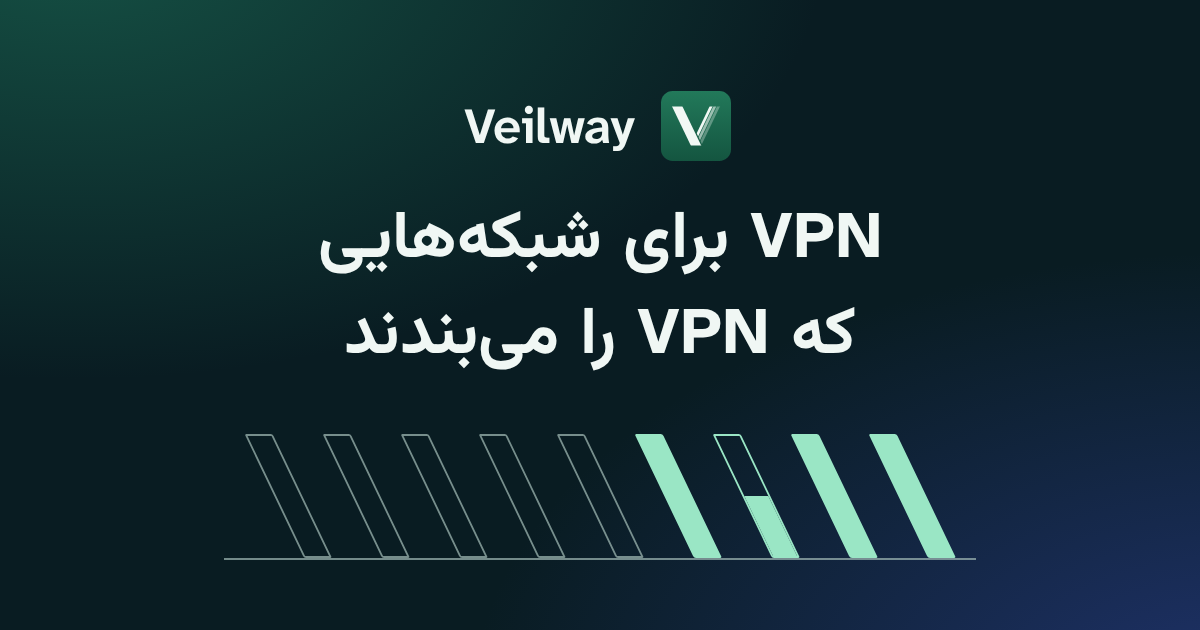
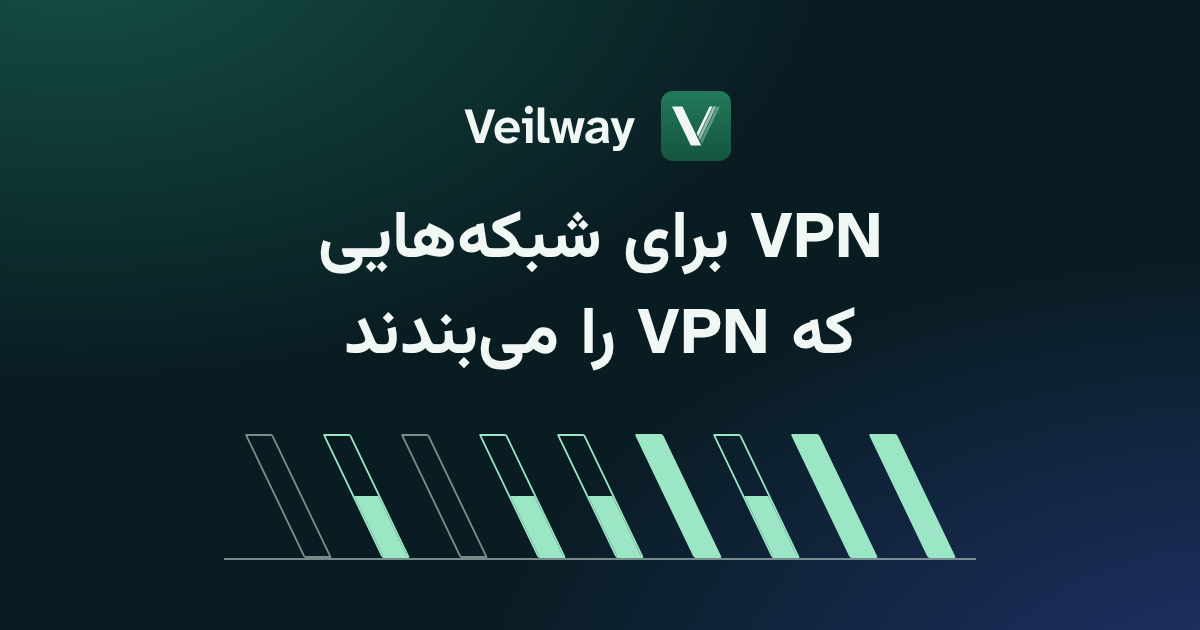
site: the panel, how it will install, and the work under way

diff --git a/fa/index.html b/fa/index.html
@@ -25,14 +25,14 @@
 <meta property="og:image:type" content="image/png">
 <meta property="og:image:width" content="1200">
 <meta property="og:image:height" content="630">
-<meta property="og:image:alt" content="نشان Veilway بالای عبارت «VPN برای شبکههایی که VPN را میبندند» و نه خط مایل برای مرحلههای پروژه، که سهتای آن انجام شده و یکی در جریان است">
+<meta property="og:image:alt" content="نشان Veilway بالای عبارت «VPN برای شبکههایی که VPN را میبندند» و نه خط مایل برای مرحلههای پروژه، که سهتای آن انجام شده و چهارتا در جریان است">
 <meta property="og:locale" content="fa_IR">
 <meta property="og:locale:alternate" content="en_US">
 <meta name="twitter:card" content="summary_large_image">
 <meta name="twitter:title" content="Veilway: VPN برای شبکههایی که VPN را میبندند">
 <meta name="twitter:description" content="Veilway نرمافزاری متنباز برای راهاندازی سرور VPN شخصی روی شبکهای سانسورشده یا ناامن است، برای خودتان یا یک گروه کوچک.">
 <meta name="twitter:image" content="https://veilway-project.github.io/img/preview-fa.png">
-<meta name="twitter:image:alt" content="نشان Veilway بالای عبارت «VPN برای شبکههایی که VPN را میبندند» و نه خط مایل برای مرحلههای پروژه، که سهتای آن انجام شده و یکی در جریان است">
+<meta name="twitter:image:alt" content="نشان Veilway بالای عبارت «VPN برای شبکههایی که VPN را میبندند» و نه خط مایل برای مرحلههای پروژه، که سهتای آن انجام شده و چهارتا در جریان است">
 <link rel="preload" href="../fonts/vazirmatn-arabic-wght-normal.woff2" as="font" type="font/woff2" crossorigin>
 <link rel="stylesheet" href="../site.css">
 </head>
@@ -59,7 +59,7 @@
 					<a class="vw-button" href="https://veilway-project.github.io/veilway-docs/fa/">خواندن مستندات</a>
 				</div>
 			</div>
-			<p class="caveat" role="note"><strong><svg class="vw-icon" viewBox="0 0 24 24" aria-hidden="true"><path d="M12 3.5 2.8 19.5h18.4z"/><path d="M12 10v4.5"/><path d="M12 17.2v.1"/></svg>آزمایشی</strong>هنوز هیچ بازبینی امنیتی بیرونی نداشته، هیچ برنامهای با پروتکل جدیدش کار نمیکند و چیزی برای دانلود وجود ندارد. فعلاً برای گردانندگان سرور و برنامهنویسانی است که خودشان از روی کد میسازند.</p>
+			<p class="caveat" role="note"><strong><svg class="vw-icon" viewBox="0 0 24 24" aria-hidden="true"><path d="M12 3.5 2.8 19.5h18.4z"/><path d="M12 10v4.5"/><path d="M12 17.2v.1"/></svg>آزمایشی</strong>هنوز هیچ بازبینی امنیتی بیرونی نداشته و هنوز نسخهای برای دانلود منتشر نشده است. فعلاً برای گردانندگان سرور و برنامهنویسانی است که خودشان از روی کد میسازند.</p>
 		</div>
 	</section>
 	<section class="section" aria-labelledby="status">
@@ -75,10 +75,10 @@
 					<li data-state="done"><span class="stroke" aria-hidden="true"></span><span class="phase-n">۱</span><span class="phase-name">موتور هسته</span><span class="phase-state">انجام شد</span></li>
 					<li data-state="now"><span class="stroke" aria-hidden="true"></span><span class="phase-n">۲</span><span class="phase-name">پروتکل جدید و موتور کلاینت</span><span class="phase-state">در حال انجام</span></li>
 					<li data-state="done"><span class="stroke" aria-hidden="true"></span><span class="phase-n">۳</span><span class="phase-name">سیستم طراحی</span><span class="phase-state">انجام شد</span></li>
-					<li><span class="stroke" aria-hidden="true"></span><span class="phase-n">۴</span><span class="phase-name">پنل وب</span><span class="phase-state">برنامهریزیشده</span></li>
-					<li><span class="stroke" aria-hidden="true"></span><span class="phase-n">۵</span><span class="phase-name">برنامهٔ دسکتاپ، آلفای عمومی</span><span class="phase-state">برنامهریزیشده</span></li>
+					<li data-state="now"><span class="stroke" aria-hidden="true"></span><span class="phase-n">۴</span><span class="phase-name">پنل وب</span><span class="phase-state">در حال انجام</span></li>
+					<li data-state="now"><span class="stroke" aria-hidden="true"></span><span class="phase-n">۵</span><span class="phase-name">برنامهٔ دسکتاپ، آلفای عمومی</span><span class="phase-state">در حال انجام</span></li>
 					<li><span class="stroke" aria-hidden="true"></span><span class="phase-n">۶</span><span class="phase-name">افزونهٔ اختیاری Xray</span><span class="phase-state">برنامهریزیشده</span></li>
-					<li><span class="stroke" aria-hidden="true"></span><span class="phase-n">۷</span><span class="phase-name">برنامهٔ اندروید</span><span class="phase-state">برنامهریزیشده</span></li>
+					<li data-state="now"><span class="stroke" aria-hidden="true"></span><span class="phase-n">۷</span><span class="phase-name">برنامهٔ اندروید</span><span class="phase-state">در حال انجام</span></li>
 					<li><span class="stroke" aria-hidden="true"></span><span class="phase-n">۸</span><span class="phase-name">مستندات کامل، نسخههای امضاشده</span><span class="phase-state">برنامهریزیشده</span></li>
 				</ol>
 			</div>
@@ -87,15 +87,20 @@
 					<h3>آنچه امروز کار میکند</h3>
 					<ul class="done-list">
 						<li>سروری که WireGuard را برای کاربران زیادی روی UDP و WebSocket اجرا میکند، با قانونهای مسیریابی، سهمیهٔ مصرف و بارگذاری دوبارهٔ پیکربندی بدون راهاندازی دوباره.</li>
-						<li>سمت سرور پروتکل جدید: یک کانال کنترل درون تونل و چهار ترنسپورت، بهاضافهٔ یک کتابخانهٔ کلاینت برای آنها که هنوز هیچ برنامهای از آن استفاده نمیکند.</li>
+						<li>پروتکل جدید در هر دو سو: یک کانال کنترل درون تونل و چهار ترنسپورت، با کلاینتی که دستدادن TLS آن شبیه یک مرورگر رایج است.</li>
+						<li>لایههای تونل کلاینت برای لینوکس، ویندوز و macOS، با یک کلید قطع اضطراری که اگر تونل از کار بیفتد ترافیک را میبندد. لایههای ویندوز و macOS هنوز روی دستگاه واقعی اجرا نشدهاند.</li>
+						<li>یک پنل وب به فارسی و انگلیسی: ورود مدیر با تأیید دومرحلهای، کاربران و دستگاهها، لینکهای اشتراک و کد QR، ورودیها، خروجیها و مسیریابی سرور، اتصال دو سرور به هم، تاریخچهٔ ترافیک، و یک API مدیریتی با توکن.</li>
 						<li>اتصال دو سرور به هم، با کدهایی که هر دو گرداننده با هم مقایسه میکنند.</li>
-						<li>یک برنامهٔ دسکتاپ ویندوز که فایل معمولی WireGuard را میخواند. این برنامه با پروتکل جدید کار نمیکند.</li>
-						<li>سیستم طراحی پنل و برنامهها، که هنوز چیزی از آن استفاده نمیکند.</li>
+						<li>سیستم طراحی پنل و برنامهها.</li>
 					</ul>
 				</div>
 				<div>
 					<h3>قدم بعدی</h3>
-					<p class="next">موتور کلاینت برای ویندوز، macOS و لینوکس. پس از آن پنل وب، برنامهٔ دسکتاپ بهعنوان نخستین نسخهٔ آلفای عمومی، و برنامهٔ اندروید میآیند.</p>
+					<p class="next">برنامهٔ دسکتاپ و برنامهٔ اندروید، که همین حالا برای نخستین نسخهٔ آلفای عمومی ساخته میشوند.</p>
+					<h3 class="install">چطور نصب خواهد شد</h3>
+					<p class="next">نخستین نسخه در راه است. وقتی منتشر شود، یک اسکریپت از روی یک منو سرور، پنل یا هر دو را نصب میکند، امضای هر فایل دانلودی را با minisign بررسی میکند، و بعدها بهروزرسانی و پشتیبانگیری را هم انجام میدهد.</p>
+					<p class="next cmd"><code class="vw-code">curl -fsSL https://raw.githubusercontent.com/veilway-project/veilway/main/scripts/veilway.sh | sudo bash</code></p>
+					<p class="next">راه دیگر، ایمیجهای Docker همراه با یک فایل compose است: <code class="vw-code">ghcr.io/veilway-project/veilway</code> و <code class="vw-code">ghcr.io/veilway-project/veilway-panel</code>.</p>
 				</div>
 			</div>
 		</div>
@@ -129,7 +134,7 @@
 					</li>
 					<li>
 						<h3>ورود از یک سرور، خروج از سروری دیگر</h3>
-						<p>دو سرور را میشود به هم وصل کرد تا کاربران به یکی وصل شوند و ترافیکشان از دیگری بیرون برود. گردانندگان آنها را با دو کد جفت میکنند و یک اثر انگشت را با هم مقایسه میکنند. هسته امروز این کار را میکند و پنل بعداً مدیریتش را بر عهده میگیرد.</p>
+						<p>دو سرور را میشود به هم وصل کرد تا کاربران به یکی وصل شوند و ترافیکشان از دیگری بیرون برود. گردانندگان آنها را در پنل یا از خط فرمان با دو کد جفت میکنند و یک اثر انگشت را با هم مقایسه میکنند.</p>
 					</li>
 					<li>
 						<h3>فارسی و انگلیسی از روز اول</h3>
@@ -149,8 +154,13 @@
 				<ul class="links">
 					<li>
 						<a href="https://github.com/veilway-project/veilway">کد</a>
-						<p>هسته، API کنترل و برنامهٔ دسکتاپ. راهنمای ساختن از روی کد در README آمده است.</p>
+						<p>هسته، API کنترل، کلاینت و اسکریپت نصب. راهنمای ساختن از روی کد در README آمده است.</p>
 						<span class="vw-code">github.com/veilway-project/veilway</span>
+					</li>
+					<li>
+						<a href="https://github.com/veilway-project/veilway-panel">پنل</a>
+						<p>پنل وب برای گرداندن سرور: کاربران، دستگاهها، لینکهای اشتراک و API مدیریتی.</p>
+						<span class="vw-code">github.com/veilway-project/<wbr>veilway-panel</span>
 					</li>
 					<li>
 						<a href="https://veilway-project.github.io/veilway-docs/fa/">مستندات</a>
@@ -169,7 +179,7 @@
 					</li>
 					<li>
 						<a href="https://github.com/veilway-project">همهٔ مخزنها</a>
-						<p>هسته، مستندات و سیستم طراحی، هر کدام در مخزن خودش.</p>
+						<p>هسته، پنل، مستندات و سیستم طراحی، هر کدام در مخزن خودش.</p>
 						<span class="vw-code">github.com/veilway-project</span>
 					</li>
 				</ul>

diff --git a/index.html b/index.html
@@ -25,14 +25,14 @@
 <meta property="og:image:type" content="image/png">
 <meta property="og:image:width" content="1200">
 <meta property="og:image:height" content="630">
-<meta property="og:image:alt" content="The Veilway logo above the words A VPN for networks that block VPNs, and nine slanted strokes for the project's phases, three done and one under way">
+<meta property="og:image:alt" content="The Veilway logo above the words A VPN for networks that block VPNs, and nine slanted strokes for the project's phases, three done and four under way">
 <meta property="og:locale" content="en_US">
 <meta property="og:locale:alternate" content="fa_IR">
 <meta name="twitter:card" content="summary_large_image">
 <meta name="twitter:title" content="Veilway: a VPN for networks that block VPNs">
 <meta name="twitter:description" content="Veilway is open-source software for running your own VPN server on a censored or hostile network, for yourself or a small group.">
 <meta name="twitter:image" content="https://veilway-project.github.io/img/preview.png">
-<meta name="twitter:image:alt" content="The Veilway logo above the words A VPN for networks that block VPNs, and nine slanted strokes for the project's phases, three done and one under way">
+<meta name="twitter:image:alt" content="The Veilway logo above the words A VPN for networks that block VPNs, and nine slanted strokes for the project's phases, three done and four under way">
 <link rel="preload" href="fonts/atkinson-hyperlegible-next-latin-wght-normal.woff2" as="font" type="font/woff2" crossorigin>
 <link rel="stylesheet" href="site.css">
 </head>
@@ -59,7 +59,7 @@
 					<a class="vw-button" href="https://veilway-project.github.io/veilway-docs/">Read the docs</a>
 				</div>
 			</div>
-			<p class="caveat" role="note"><strong><svg class="vw-icon" viewBox="0 0 24 24" aria-hidden="true"><path d="M12 3.5 2.8 19.5h18.4z"/><path d="M12 10v4.5"/><path d="M12 17.2v.1"/></svg>Experimental</strong>It has had no outside security review, no app speaks its new protocol yet, and there is nothing to download. Today it is for operators and developers who build from source.</p>
+			<p class="caveat" role="note"><strong><svg class="vw-icon" viewBox="0 0 24 24" aria-hidden="true"><path d="M12 3.5 2.8 19.5h18.4z"/><path d="M12 10v4.5"/><path d="M12 17.2v.1"/></svg>Experimental</strong>It has had no outside security review and there is no release to download yet. Today it is for operators and developers who build from source.</p>
 		</div>
 	</section>
 	<section class="section" aria-labelledby="status">
@@ -75,10 +75,10 @@
 					<li data-state="done"><span class="stroke" aria-hidden="true"></span><span class="phase-n">1</span><span class="phase-name">Core engine</span><span class="phase-state">Done</span></li>
 					<li data-state="now"><span class="stroke" aria-hidden="true"></span><span class="phase-n">2</span><span class="phase-name">New protocol and client engine</span><span class="phase-state">In progress</span></li>
 					<li data-state="done"><span class="stroke" aria-hidden="true"></span><span class="phase-n">3</span><span class="phase-name">Design system</span><span class="phase-state">Done</span></li>
-					<li><span class="stroke" aria-hidden="true"></span><span class="phase-n">4</span><span class="phase-name">Web panel</span><span class="phase-state">Planned</span></li>
-					<li><span class="stroke" aria-hidden="true"></span><span class="phase-n">5</span><span class="phase-name">Desktop app, public alpha</span><span class="phase-state">Planned</span></li>
+					<li data-state="now"><span class="stroke" aria-hidden="true"></span><span class="phase-n">4</span><span class="phase-name">Web panel</span><span class="phase-state">In progress</span></li>
+					<li data-state="now"><span class="stroke" aria-hidden="true"></span><span class="phase-n">5</span><span class="phase-name">Desktop app, public alpha</span><span class="phase-state">In progress</span></li>
 					<li><span class="stroke" aria-hidden="true"></span><span class="phase-n">6</span><span class="phase-name">Optional Xray add-on</span><span class="phase-state">Planned</span></li>
-					<li><span class="stroke" aria-hidden="true"></span><span class="phase-n">7</span><span class="phase-name">Android app</span><span class="phase-state">Planned</span></li>
+					<li data-state="now"><span class="stroke" aria-hidden="true"></span><span class="phase-n">7</span><span class="phase-name">Android app</span><span class="phase-state">In progress</span></li>
 					<li><span class="stroke" aria-hidden="true"></span><span class="phase-n">8</span><span class="phase-name">Full docs, signed releases</span><span class="phase-state">Planned</span></li>
 				</ol>
 			</div>
@@ -87,15 +87,20 @@
 					<h3>Works today</h3>
 					<ul class="done-list">
 						<li>A server that runs WireGuard for many users over UDP and WebSocket, with routing rules, quotas, and config reload without a restart.</li>
-						<li>The server side of the new protocol: a control channel inside the tunnel and four transports, plus a client library for them that no app uses yet.</li>
+						<li>The new protocol on both ends: a control channel inside the tunnel and four transports, with a client whose TLS handshake looks like a common browser's.</li>
+						<li>The client's tunnel layers for Linux, Windows and macOS, with a kill switch that blocks traffic when the tunnel fails. The Windows and macOS layers have not run on a real machine yet.</li>
+						<li>A web panel in English and Persian: admin sign-in with two-factor, users and devices, subscription links and QR codes, the server's inbounds, exits and routing, linking two servers, traffic history, and an admin API with tokens.</li>
 						<li>Links between two servers, paired with codes both operators compare.</li>
-						<li>A Windows desktop app that reads a normal WireGuard file. It does not speak the new protocol.</li>
-						<li>The design system for the panel and the apps, which nothing uses yet.</li>
+						<li>The design system for the panel and the apps.</li>
 					</ul>
 				</div>
 				<div>
 					<h3>Next</h3>
-					<p class="next">The client engine for Windows, macOS and Linux. After it come the web panel, the desktop app as the first public alpha, and the Android app.</p>
+					<p class="next">The desktop app and the Android app, built now for the first public alpha.</p>
+					<h3 class="install">How it will install</h3>
+					<p class="next">The first release is coming. Once it is out, one script installs the server, the panel or both from a menu, checks every download's signature with minisign, and later updates and backs it up.</p>
+					<p class="next cmd"><code class="vw-code">curl -fsSL https://raw.githubusercontent.com/veilway-project/veilway/main/scripts/veilway.sh | sudo bash</code></p>
+					<p class="next">Docker images with a compose file are another option: <code class="vw-code">ghcr.io/veilway-project/veilway</code> and <code class="vw-code">ghcr.io/veilway-project/veilway-panel</code>.</p>
 				</div>
 			</div>
 		</div>
@@ -129,7 +134,7 @@
 					</li>
 					<li>
 						<h3>Enter one server, leave from another</h3>
-						<p>Two servers can be linked, so users connect to one and their traffic leaves from the other. The operators pair them with two codes and compare a fingerprint. The core does this today, and the panel will manage it.</p>
+						<p>Two servers can be linked, so users connect to one and their traffic leaves from the other. The operators pair them with two codes and compare a fingerprint, in the panel or on the command line.</p>
 					</li>
 					<li>
 						<h3>English and Persian from the start</h3>
@@ -149,8 +154,13 @@
 				<ul class="links">
 					<li>
 						<a href="https://github.com/veilway-project/veilway">Code</a>
-						<p>The core, the control API and the desktop app. The README has a quick start for building from source.</p>
+						<p>The core, the control API, the client and the install script. The README has a quick start for building from source.</p>
 						<span class="vw-code">github.com/veilway-project/veilway</span>
+					</li>
+					<li>
+						<a href="https://github.com/veilway-project/veilway-panel">Panel</a>
+						<p>The web panel for running a server: users, devices, subscription links and the admin API.</p>
+						<span class="vw-code">github.com/veilway-project/<wbr>veilway-panel</span>
 					</li>
 					<li>
 						<a href="https://veilway-project.github.io/veilway-docs/">Docs</a>
@@ -169,7 +179,7 @@
 					</li>
 					<li>
 						<a href="https://github.com/veilway-project">All repositories</a>
-						<p>The core, the docs and the design system, each in its own repository.</p>
+						<p>The core, the panel, the docs and the design system, each in its own repository.</p>
 						<span class="vw-code">github.com/veilway-project</span>
 					</li>
 				</ul>

diff --git a/site.css b/site.css
@@ -390,6 +390,8 @@ body.vw-backdrop::after { content: none; }
 .done-list li::before { content: ""; position: absolute; inset-inline-start: 4px; inset-block-start: 0.35em; inline-size: 4px; block-size: 0.95em; border-radius: 1px; background: var(--c-accent-ink); transform: skewX(var(--slant)); }
 :lang(fa) .done-list li::before { inset-block-start: 0.5em; }
 .status .next { margin-block-start: var(--s-3); max-inline-size: 30em; }
+.status .install { margin-block-start: var(--s-6); }
+.status .cmd { direction: ltr; text-align: left; }
 /* What it does differently: the client windows beside the points they show. */
 .diff { display: grid; gap: var(--s-7); margin-block-start: var(--s-7); align-items: start; }
 @media (min-width: 900px) {

diff --git a/preview-src/fa.html b/preview-src/fa.html
@@ -4,6 +4,6 @@
 <body>
 <div class="brand"><img src="/site/img/icon.svg" alt="">Veilway</div>
 <h1>VPN برای شبکههایی که VPN را میبندند</h1>
-<div class="phases"><i class="done"></i><i class="done"></i><i class="now"></i><i class="done"></i><i></i><i></i><i></i><i></i><i></i></div>
+<div class="phases"><i class="done"></i><i class="done"></i><i class="now"></i><i class="done"></i><i class="now"></i><i class="now"></i><i></i><i class="now"></i><i></i></div>
 </body>
 </html>

diff --git a/preview-src/en.html b/preview-src/en.html
@@ -4,6 +4,6 @@
 <body>
 <div class="brand"><img src="/site/img/icon.svg" alt="">Veilway</div>
 <h1>A VPN for networks that block VPNs</h1>
-<div class="phases"><i class="done"></i><i class="done"></i><i class="now"></i><i class="done"></i><i></i><i></i><i></i><i></i><i></i></div>
+<div class="phases"><i class="done"></i><i class="done"></i><i class="now"></i><i class="done"></i><i class="now"></i><i class="now"></i><i></i><i class="now"></i><i></i></div>
 </body>
 </html>

diff --git a/README.md b/README.md
@@ -34,6 +34,7 @@ Edit the files and open `index.html` in a browser, or serve the folder with any 
 ## Related
 
 - [veilway](https://github.com/veilway-project/veilway): the core, the control API and the apps
+- [veilway-panel](https://github.com/veilway-project/veilway-panel): the web panel for running a node
 - [veilway-docs](https://github.com/veilway-project/veilway-docs): the docs, published at [veilway-project.github.io/veilway-docs](https://veilway-project.github.io/veilway-docs/)
 - [veilway-ui](https://github.com/veilway-project/veilway-ui): the design system and translations
 
